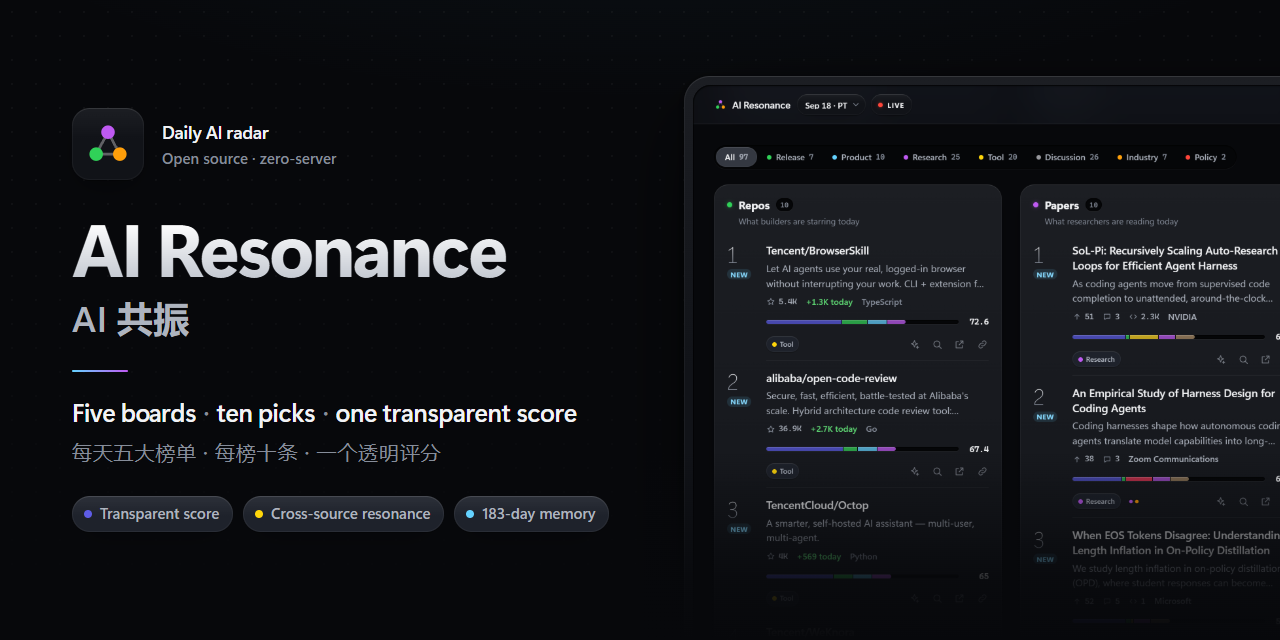
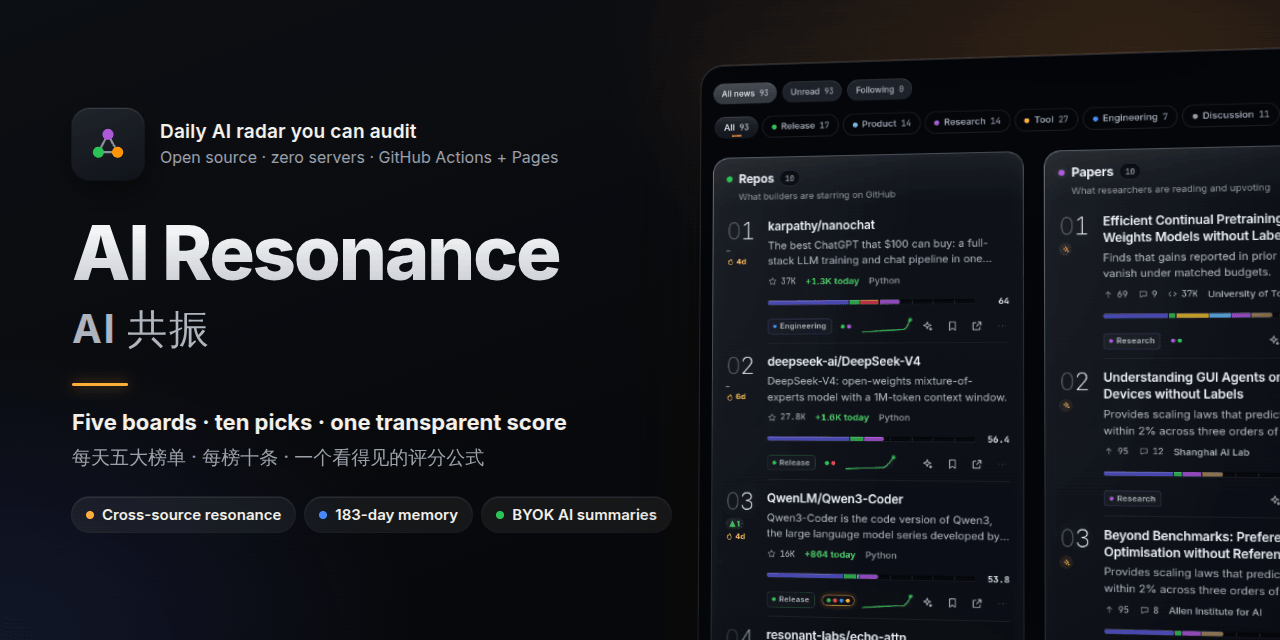
docs: storefront README — highlights and live link first, fresh social preview
- Under the tagline: one line of highlights (zero servers, auditable score,
  cross-source resonance, 183-day memory, BYOK AI, bilingual) and a plain
  "Open today's radar" link.
- "Why AI Resonance?" moves up to follow the hero screenshot; the long
  2026-09-21 update log moves near the end under "Recent updates", folded.
- New banner / social preview (1280×640) built from the current glass UI;
  the site's og:image uses the same file.

Claude-Session: https://claude.ai/code/session_01HvFqb5s9K49yND5bFCZ3yt

diff --git a/README.md b/README.md
@@ -11,6 +11,14 @@
 </p>
 
 <p align="center">
+  ⚡ Zero servers (GitHub Actions + Pages) · 🔍 A score you can audit · 🔗 Cross-source resonance · 🧠 183-day memory · 🔑 Bring-your-own-key AI · 🌏 English / 中文
+</p>
+
+<p align="center">
+  <a href="https://wzznne.github.io/AI-Resonance/"><b>▶ Open today's radar</b></a> — nothing to install, no account
+</p>
+
+<p align="center">
   <a href="https://github.com/WZZNNE/AI-Resonance/actions/workflows/ci.yml"><img src="https://img.shields.io/github/actions/workflow/status/WZZNNE/AI-Resonance/ci.yml?branch=main&label=CI&logo=githubactions&logoColor=white" alt="CI status"></a>
   <a href="./LICENSE"><img src="https://img.shields.io/badge/license-MIT-blue.svg" alt="MIT license"></a>
   <a href="https://wzznne.github.io/AI-Resonance/"><img src="https://img.shields.io/badge/live%20demo-open-0a84ff?logo=githubpages&logoColor=white" alt="Live demo"></a>
@@ -39,32 +47,6 @@
   <img src="docs/screenshots/today-dark.png" alt="Today's edition on desktop: the hero date, today's brief and events at a glance on glass panels, the filters and the board grid (dark theme)" width="100%">
 </p>
 
-## Read it now — no deployment required
-
-[Open the daily radar](https://wzznne.github.io/AI-Resonance/) · [Beginner picks](https://wzznne.github.io/AI-Resonance/#/learn) · [Subscribe](https://wzznne.github.io/AI-Resonance/#/subscribe)
-
-The beginner library always shows 100 resources: 30 resident picks and 70 dynamic recommendations. Search by keyword and type, switch between resident and dynamic picks, or filter recent entries.
-
-Reading, Atom subscriptions, follow controls, bookmarks and reading-library backup need no key or account. A site operator can pre-generate bilingual explanations with a pipeline LLM key; coverage is shown honestly when explanations are unavailable. Deploy only if you want to run your own edition.
-
-## Update · 2026-09-21
-
-The library always shows **100 resources: 30 resident picks plus 70 dynamic recommendations**. Dynamic selection is reconsidered daily; resources need not be newly published, and useful selections stay when no better candidates qualify.
-
-- Removed historical launch news, specialist mathematics/research textbooks and duplicate repository/tutorial entry points. A few older foundations can remain when they still help users understand current tools.
-- Dynamic selection considers useful AI tools, repositories, tutorials and official releases regardless of age. Ordinary research papers, rants, hiring, funding and promotions are excluded. A reviewed starter pool and retained candidates keep all 70 slots filled while later resources compete on value.
-- Residents can be replaced. Rank all eligible candidates without reserved seats and use the 100th item's score as the daily threshold. A resident strictly below it can be replaced by the highest-scoring eligible resource that appeared in the dynamic 70 during the preceding 30 days and is not already resident. Equal scores do not trigger replacement.
-- Source publication or repository update dates stay separate from entry dates. Recrawling old material does not make it new. `NEW` and `BACK` last seven days and entry history survives deployment.
-- The page now prioritizes filters, short descriptions and source links. Long selection explanations, per-item recommendations and scoring details have moved out of the reading interface.
-
-This revision retains 40 entries from the original catalogue and replaces 60, including all 15 original research papers and five historical launch stories, plus specialist or duplicate courses, textbooks and low-level library entries. New resources cover document Q&A, PDF/OCR, subtitles, speech, coding, workflows, visual creation and presentations. Examples include Claude Code, n8n, Docling, PaddleOCR, Subtitle Edit, Codex and Cherry Studio, plus ten official Chinese-language tool entry points. Paper and news categories may initially be empty; suitable later resources can still enter those categories.
-
-The default GitHub Actions workflow collects and publishes every three hours, with extra runs around the daily cutoff. The visible page checks for updates every five minutes and supports manual refresh. This is scheduled refresh, not instant push. Initial resources receive editorial maintenance; dynamic selection and resident replacement use disclosed rules rather than individual editorial review. Missing translations fall back to the source text.
-
-Internal learning scores combine foundation, clarity, practice and authority, each 0–5, multiplied by five. They support stable ordering and represent editorial/rule-based judgments, not popularity or measured learning outcomes. Monthly replacement uses the mean score on days a resource appeared in the dynamic selection during the past 30 days, recording each day once; ties compare current score, latest appearance and stable ID. Both a replacement's current score and monthly mean must exceed the displaced item's score. Missing days receive no invented scores; one observed day is enough to compete. The update rescreens cached candidates while preserving entry history. See [data and implementation notes](./docs/LEARNING.md).
-
-The daily reader also gains clearer edition labels, content-first details, one-click follows, reading-library migration and a dedicated subscription page. Sharing now offers static preview pages and downloadable image cards. Explanation coverage and event changes are visible, so you can tell missing copy from missing source data. Details are in the [feature tour](#feature-tour).
-
 ## Why AI Resonance?
 
 Most AI digests are a feed that someone (or some model) picked for you. You can't see why an item made the cut, you
@@ -82,6 +64,14 @@ only see one source at a time, and yesterday is gone. AI Resonance does it diffe
 It runs entirely on GitHub Actions and GitHub Pages. There is no backend, database or account. Daily explanations can be
 pre-generated by the pipeline; optional personal AI tools run in your browser with your own keys. Change YAML to adapt
 the daily sources and topic; the AI beginner catalogue is maintained separately.
+
+## Read it now — no deployment required
+
+[Open the daily radar](https://wzznne.github.io/AI-Resonance/) · [Beginner picks](https://wzznne.github.io/AI-Resonance/#/learn) · [Subscribe](https://wzznne.github.io/AI-Resonance/#/subscribe)
+
+The beginner library always shows 100 resources: 30 resident picks and 70 dynamic recommendations. Search by keyword and type, switch between resident and dynamic picks, or filter recent entries.
+
+Reading, Atom subscriptions, follow controls, bookmarks and reading-library backup need no key or account. A site operator can pre-generate bilingual explanations with a pipeline LLM key; coverage is shown honestly when explanations are unavailable. Deploy only if you want to run your own edition.
 
 ## Screenshots
 
@@ -413,6 +403,29 @@ normal search pages in a new tab.
 
 **How big does the repository get?** The `data` branch keeps at most 60 raw candidates per board per edition and drops
 snapshots older than 183 days, so a few MB. Everything under `/api/v1` is rebuilt from it on every run.
+
+## Recent updates
+
+<details>
+<summary>2026-09-21 · Beginner library: 100 resources (30 resident + 70 dynamic picks), clearer edition labels, subscription page</summary>
+
+The library always shows **100 resources: 30 resident picks plus 70 dynamic recommendations**. Dynamic selection is reconsidered daily; resources need not be newly published, and useful selections stay when no better candidates qualify.
+
+- Removed historical launch news, specialist mathematics/research textbooks and duplicate repository/tutorial entry points. A few older foundations can remain when they still help users understand current tools.
+- Dynamic selection considers useful AI tools, repositories, tutorials and official releases regardless of age. Ordinary research papers, rants, hiring, funding and promotions are excluded. A reviewed starter pool and retained candidates keep all 70 slots filled while later resources compete on value.
+- Residents can be replaced. Rank all eligible candidates without reserved seats and use the 100th item's score as the daily threshold. A resident strictly below it can be replaced by the highest-scoring eligible resource that appeared in the dynamic 70 during the preceding 30 days and is not already resident. Equal scores do not trigger replacement.
+- Source publication or repository update dates stay separate from entry dates. Recrawling old material does not make it new. `NEW` and `BACK` last seven days and entry history survives deployment.
+- The page now prioritizes filters, short descriptions and source links. Long selection explanations, per-item recommendations and scoring details have moved out of the reading interface.
+
+This revision retains 40 entries from the original catalogue and replaces 60, including all 15 original research papers and five historical launch stories, plus specialist or duplicate courses, textbooks and low-level library entries. New resources cover document Q&A, PDF/OCR, subtitles, speech, coding, workflows, visual creation and presentations. Examples include Claude Code, n8n, Docling, PaddleOCR, Subtitle Edit, Codex and Cherry Studio, plus ten official Chinese-language tool entry points. Paper and news categories may initially be empty; suitable later resources can still enter those categories.
+
+The default GitHub Actions workflow collects and publishes every three hours, with extra runs around the daily cutoff. The visible page checks for updates every five minutes and supports manual refresh. This is scheduled refresh, not instant push. Initial resources receive editorial maintenance; dynamic selection and resident replacement use disclosed rules rather than individual editorial review. Missing translations fall back to the source text.
+
+Internal learning scores combine foundation, clarity, practice and authority, each 0–5, multiplied by five. They support stable ordering and represent editorial/rule-based judgments, not popularity or measured learning outcomes. Monthly replacement uses the mean score on days a resource appeared in the dynamic selection during the past 30 days, recording each day once; ties compare current score, latest appearance and stable ID. Both a replacement's current score and monthly mean must exceed the displaced item's score. Missing days receive no invented scores; one observed day is enough to compete. The update rescreens cached candidates while preserving entry history. See [data and implementation notes](./docs/LEARNING.md).
+
+The daily reader also gains clearer edition labels, content-first details, one-click follows, reading-library migration and a dedicated subscription page. Sharing now offers static preview pages and downloadable image cards. Explanation coverage and event changes are visible, so you can tell missing copy from missing source data. Details are in the [feature tour](#feature-tour).
+
+</details>
 
 ## Roadmap
 

diff --git a/docs/LEARNING.md b/docs/LEARNING.md
@@ -1,6 +1,6 @@
 # 入门推荐 / Beginner picks
 
-产品更新与选材说明集中在 [中文 README](../README.zh-CN.md#更新--2026-09-21) 和 [English README](../README.md#update--2026-09-21)。阅读页保留简短介绍、来源和筛选，不重复展示规则说明。
+产品更新与选材说明集中在 [中文 README](../README.zh-CN.md#近期更新) 和 [English README](../README.md#recent-updates)。阅读页保留简短介绍、来源和筛选，不重复展示规则说明。
 
 ## 数据与入口
 
